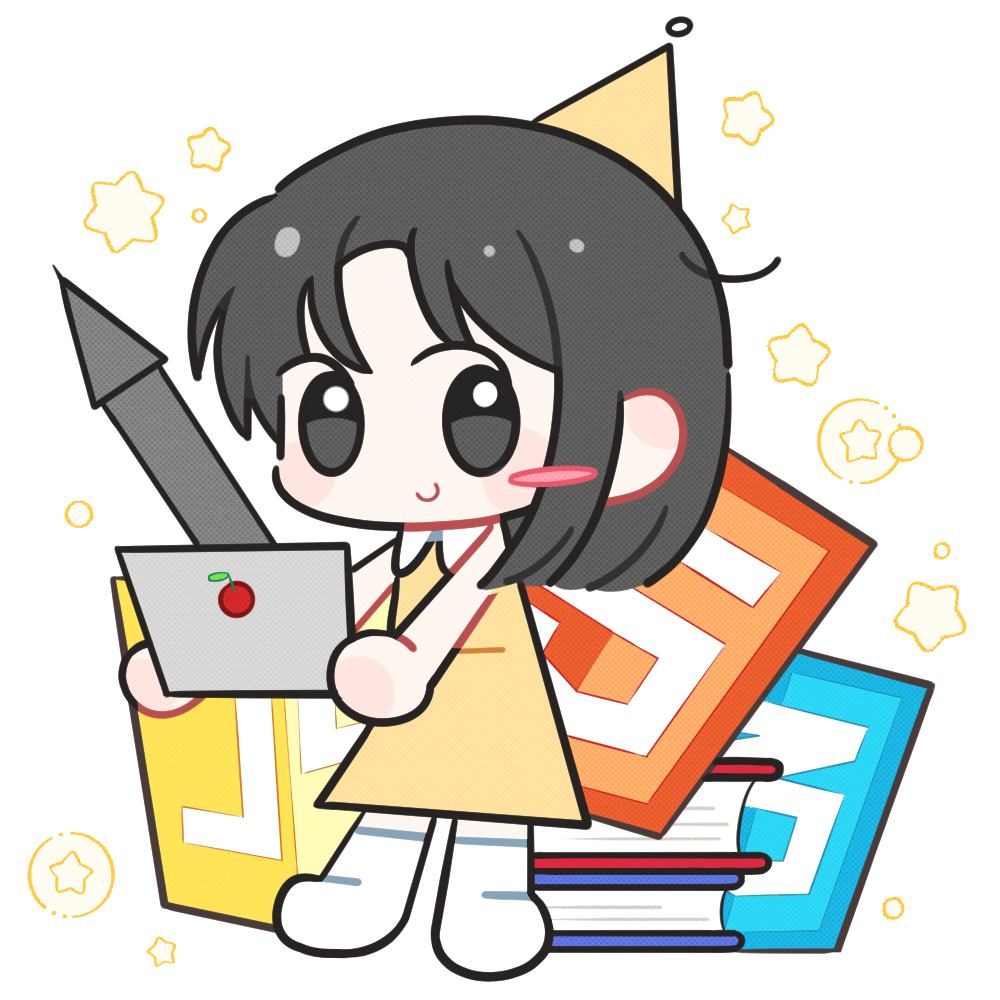
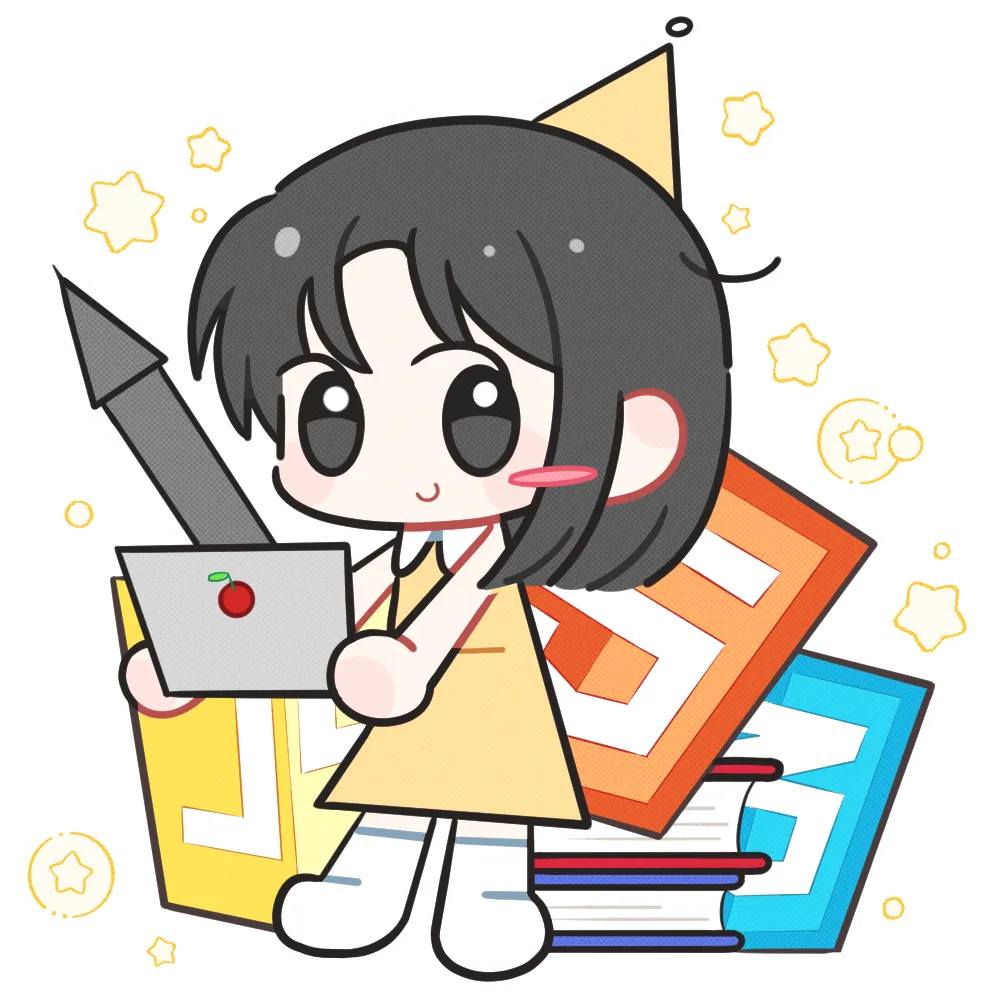
fix: 화면 깨짐 수정 px => 변수로 변경, 이미지 용량 낮춤,

diff --git a/css/main.css b/css/main.css
@@ -9,11 +9,10 @@
   display: inline-flex;
   align-items: center;
   justify-content: center;
-  height: 56px;
   min-height: var(--control-lg);
-  padding: 0 28px;
+  padding: 0 var(--space-32);
   border-radius: var(--radius-pill);
-  font-weight: bold;
+  font-weight: 600;
 }
 
 .btn--solid {
@@ -26,43 +25,43 @@
 }
 
 .section-label {
+  font-family: var(--font-mono);
   font-size: var(--fs-label);
-  color: var(--color-point);
-  margin-bottom: 12px;
   letter-spacing: 0.14em;
+  margin-bottom: var(--space-12);
+  color: var(--color-point);
 }
 
 .section-title {
   font-size: var(--fs-h2);
   line-height: 1.3;
-  margin-bottom: 24px;
+  margin-bottom: var(--space-24);
 }
 
 .about__desc {
   color: var(--color-text-sub);
-  margin-bottom: 48px;
+  margin-bottom: var(--space-48);
 }
 
 /* 헤더 ------------------------------------ */
 
 .site-header {
-  height: 85px;
+  padding: var(--space-12) 0;
   border-bottom: 1px solid var(--color-line);
 }
 
 .site-header__inner {
-  height: inherit;
   display: flex;
   align-items: center;
   flex-direction: column;
   justify-content: center;
-  gap: 8px;
+  gap: var(--space-8);
 }
 
 .site-header__logo {
   position: relative;
-  font-weight: bold;
-  padding-left: 18px;
+  font-weight: 600;
+  padding-left: var(--space-16);
 }
 
 .site-header__logo::after {
@@ -71,23 +70,21 @@
   top: 50%;
   left: 0;
   transform: translate(0%, -50%);
-  width: 10px;
-  height: 10px;
+  width: var(--space-8);
+  height: var(--space-8);
   border-radius: var(--radius-pill);
   background-color: var(--color-point);
 }
 
 .site-nav__list {
   display: flex;
-  gap: 24px;
+  gap: var(--space-24);
 }
 
 /* 히어로 ---------------------------------- */
 
 .hero {
-  /* display: flex; */
   margin: var(--section-y) auto;
-  /* gap: 0px; */
 }
 
 .hero__illust {
@@ -95,9 +92,10 @@
 }
 
 .hero__eyebrow {
-  font-size: var(--fs-body);
+  font-family: var(--font-mono);
+  font-size: var(--fs-label);
   color: var(--color-point);
-  margin-bottom: 24px;
+  margin-bottom: var(--space-24);
 }
 
 .hero__title {
@@ -108,18 +106,19 @@
 
 .hero__point {
   color: var(--color-point);
+  font-style: normal;
   text-decoration: underline;
   text-decoration-thickness: 3px;
-  text-underline-offset: 18px;
+  text-underline-offset: var(--space-16);
 }
 
 .hero__desc {
-  margin: 28px 0 40px;
+  margin: var(--space-32) 0 var(--space-48);
 }
 
 .hero__links {
   display: flex;
-  gap: 12px;
+  gap: var(--space-12);
 }
 
 /* 키워드 띠 ------------------------------- */
@@ -127,14 +126,14 @@
 .keywords {
   display: flex;
   flex-direction: column;
-  gap: 18px;
+  gap: var(--space-16);
   margin: var(--section-y) auto;
   overflow: hidden;
 }
 
 .keywords__row {
   display: flex;
-  gap: 14px;
+  gap: var(--space-12);
 }
 
 .keyword {
@@ -143,7 +142,7 @@
   justify-content: center;
   flex-shrink: 0;
   white-space: nowrap;
-  padding: 12px 26px;
+  padding: var(--space-12) var(--space-24);
   border-radius: var(--radius-pill);
 }
 
@@ -161,7 +160,8 @@
 .about {
   padding: var(--section-y) 0;
   background-color: var(--color-surface);
-  border: 1px solid var(--color-line-strong);
+  border-top: 1px solid var(--color-line);
+  border-bottom: 1px solid var(--color-line);
 }
 
 .about__illust {
@@ -171,13 +171,13 @@
 .about__grid {
   display: grid;
   grid-template-columns: repeat(auto-fit, minmax(260px, 1fr));
-  column-gap: 48px;
+  column-gap: var(--space-48);
 }
 
 .about__heading {
   font-size: var(--fs-small);
   font-weight: 600;
-  margin-bottom: 16px;
+  margin-bottom: var(--space-16);
   color: var(--color-text-muted);
 }
 
@@ -209,18 +209,18 @@
   font-family: var(--font-mono);
   font-size: var(--fs-label);
   color: var(--color-text-label);
-  margin-left: 8px;
+  margin-left: var(--space-8);
   font-weight: 400;
 }
 
 .skill-tags {
   display: flex;
   flex-wrap: wrap;
-  gap: 12px;
+  gap: var(--space-12);
 }
 
 .skill-tags__item {
-  padding: 6px 14px;
+  padding: var(--space-8) var(--space-12);
   border: 1px solid var(--color-line-strong);
   border-radius: var(--radius-pill);
   font-size: var(--fs-label);
@@ -229,23 +229,20 @@
 /* 작업물 ---------------------------------- */
 
 .works {
-  margin: var(--section-y);
+  margin: var(--section-y) auto;
 }
 
 .section-intro {
   color: var(--color-text-muted);
-  margin-bottom: 48px;
-}
-
-.work-list li {
-  margin-bottom: 64px;
+  margin-bottom: var(--space-48);
 }
 
 .work {
   display: flex;
   flex-wrap: wrap;
   justify-content: center;
-  gap: 48px;
+  gap: var(--space-48);
+  margin-bottom: var(--space-64);
 }
 
 .work__media {
@@ -254,6 +251,7 @@
 
 .work__body {
   flex: 1 1 400px;
+  min-width: 0;
 }
 
 .work__media img {
@@ -267,19 +265,17 @@
   font-family: var(--font-mono);
   font-size: var(--fs-label);
   color: var(--color-point);
-  margin-bottom: 8px;
+  margin-bottom: var(--space-8);
 }
 
 .work__title {
   font-size: var(--fs-h3);
-  margin-bottom: 20px;
+  margin-bottom: var(--space-24);
 }
 
 .work__info {
   display: grid;
-  grid-template-columns: 88px 1fr;
-  gap: var(--space-12) var(--space-16);
-  margin-bottom: 28px;
+  margin-bottom: var(--space-32);
 }
 
 .work__info dt {
@@ -287,18 +283,21 @@
   font-family: var(--font-mono);
   font-size: var(--fs-label);
 }
+
 .work__info dd {
   color: var(--color-text-sub);
+  margin-bottom: var(--space-8);
 }
 
 .work__links {
   display: flex;
-  gap: 10px;
+  gap: var(--space-8);
+  flex-wrap: wrap;
 }
 
 .work__links .btn {
-  min-height: 44px;
-  padding: 14px 20px;
+  min-height: var(--control-md);
+  padding: var(--space-12) var(--space-24);
 }
 
 /* 학습 프로젝트 ---------------------------- */
@@ -309,7 +308,7 @@
 
 @media (min-width: 768px) {
   .site-header {
-    height: 68px;
+    padding: var(--space-24) 0;
   }
 
   .site-header__inner {
@@ -318,32 +317,39 @@
     align-items: center;
     gap: 0;
   }
+
+  .work__info {
+    grid-template-columns: 88px 1fr;
+    gap: var(--space-12) var(--space-16);
+    margin-bottom: var(--space-24);
+  }
+
+  .work__info dd {
+    margin-bottom: 0;
+  }
 }
 
 @media (min-width: 1024px) {
   .hero {
     display: flex;
     align-items: center;
-    gap: 25px;
+    gap: var(--space-24);
   }
 
   .hero__text {
     flex: 2;
+    min-width: 0;
   }
 
   .hero__illust {
     display: block;
     flex: 1.5;
-  }
-
-  .hero > div {
     min-width: 0;
   }
 
   .about__inner {
     display: flex;
-    /* align-items: center; */
-    gap: 25px;
+    gap: var(--space-24);
   }
 
   .about__body {
@@ -356,11 +362,11 @@
   }
 
   .section-intro {
-    margin-bottom: 80px;
+    margin-bottom: var(--space-80);
   }
 
-  .work-list li {
-    margin-bottom: 96px;
+  .work {
+    margin-bottom: var(--space-96);
   }
 
   .work--reverse {

diff --git a/css/tokens.css b/css/tokens.css
@@ -43,6 +43,9 @@
   --space-32: 32px;
   --space-48: 48px;
   --space-64: 64px;
+  --space-80: 80px;
+  --space-96: 96px;
+
 
   /* 레이아웃 */
   --container: 1200px;
